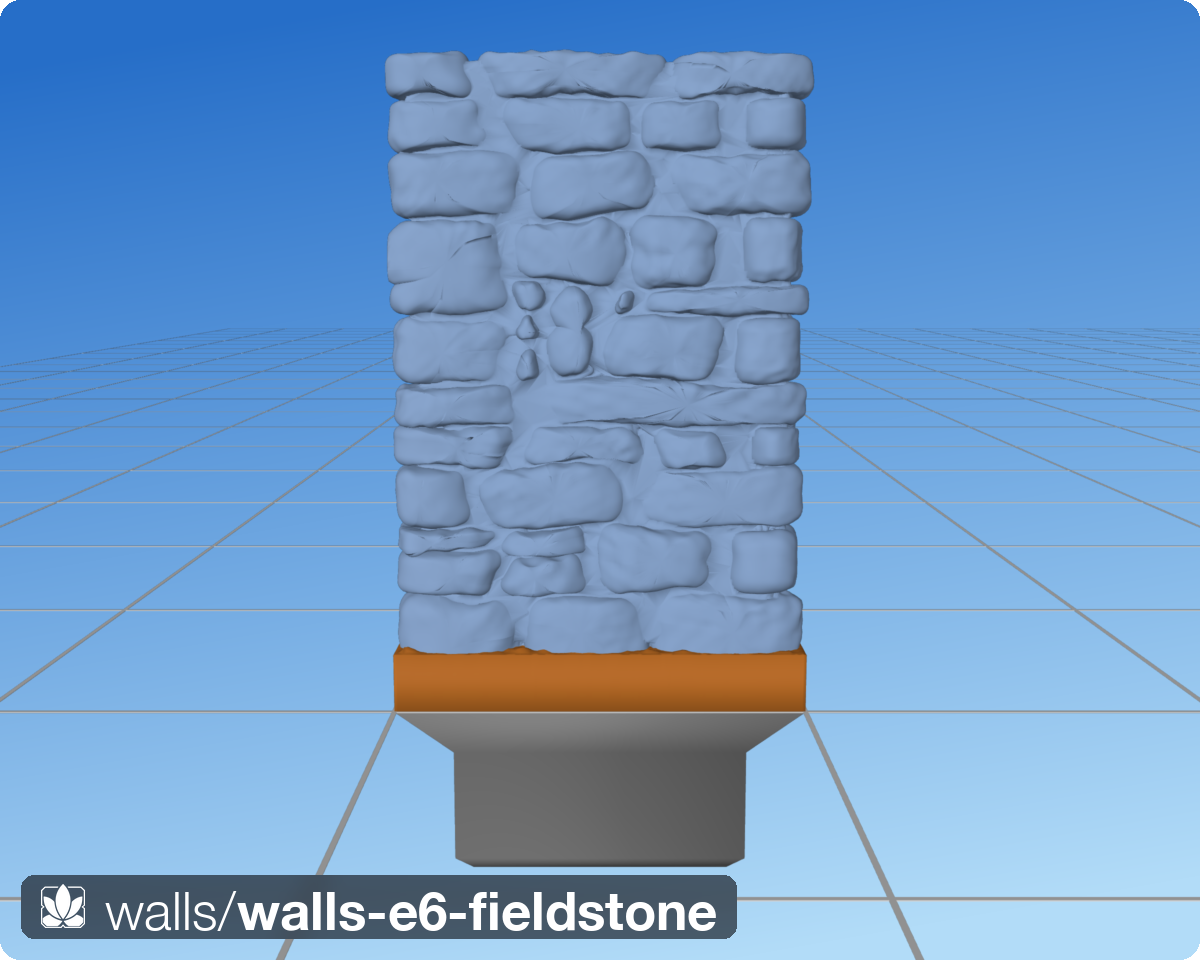
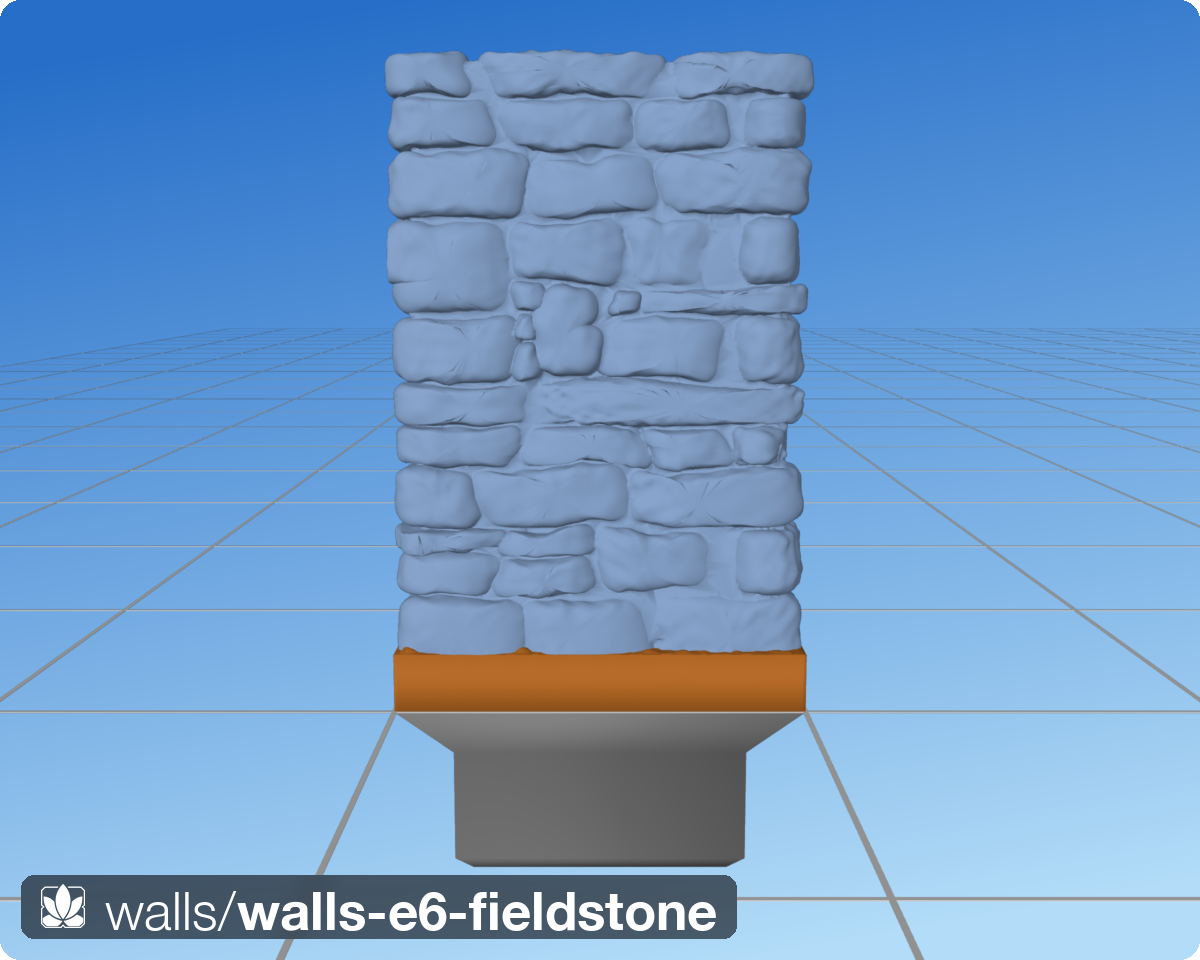
Walls: fieldstone E24 — head-joint overlap (pressed vertical contacts)
Shawn: reduce the horizontal gaps between rocks quite a bit more —
overlap them so the visible mortar reduces at the surface; leave the
top row alone.

- each stone extends past its head-joint lines by U(0.45, 0.95)mm per
  side (capped at 0.25x the stone's width so thin stones aren't
  swallowed); the union fuses side-by-side neighbours into a pressed
  crease instead of an open V-groove
- deliberately relaxes the E10 no-overlap rule for HEAD JOINTS only:
  beds remain shared non-overlapping curves, and with the pebble morph
  the fused contact reads as stones pressed together, not the E9
  melted mass
- top course (is_top) exempt per Shawn

Watertight (0 non-manifold); red-mortar diag 0.0000-0.0001.

diff --git a/src/dharmatiles/walls/fieldstone.py b/src/dharmatiles/walls/fieldstone.py
@@ -64,6 +64,19 @@ _BOW_MM           = 1.1           # head joints BOW up to ±this at their
                                   # joint is a shared parabola, zero at
                                   # the bed lines, both neighbours
                                   # evaluating the same curve
+_HEAD_OVERLAP_MM  = (0.45, 0.95)  # E24: stones extend past their head-
+                                  # joint lines on BOTH sides, drawn per
+                                  # side per stone — neighbours
+                                  # interpenetrate and the union fuses
+                                  # the contact, so the visible mortar
+                                  # at vertical joints shrinks to a
+                                  # pressed crease.  Deliberately breaks
+                                  # the no-overlap rule for head joints
+                                  # only (beds stay shared curves); the
+                                  # TOP COURSE is exempt (Shawn) and the
+                                  # overlap is capped at 0.25× the
+                                  # stone's width so thin stones aren't
+                                  # swallowed
 _RING_NOISE_MM    = (0.04, 0.16)  # per-stone INWARD-only outline noise
                                   # (floor, max; 2 sinusoids over the
                                   # perimeter): irregular stone shapes +
@@ -325,13 +338,21 @@ class FieldstoneWall(CutStoneWall):
 
     # ── the stone ────────────────────────────────────────────────────────────
     def _outline(self, cell: _Cell, seg: _Seg, seg_i: int,
-                 ) -> np.ndarray:
+                 brng: np.random.Generator) -> np.ndarray:
         """Face outline polygon (t, z) bounded by the cell's cracks.
-        Every edge — including every side ENDPOINT — evaluates curves
-        shared with the neighbour across it, so the tessellation has no
-        overlaps and no wedge voids anywhere, by construction."""
+        Every edge evaluates curves shared with the neighbour across it;
+        beds never overlap.  Head joints DO (E24): each stone extends
+        past its side lines so the union fuses side-by-side neighbours
+        into pressed contact — except in the top course."""
         bands = getattr(cell, 'side_bands',
                         [(cell.key[0], cell.z0, cell.z1)])
+        w = cell.t1 - cell.t0
+        if cell.is_top:
+            ov0 = ov1 = 0.0
+        else:
+            cap = 0.25 * w
+            ov0 = min(float(brng.uniform(*_HEAD_OVERLAP_MM)), cap)
+            ov1 = min(float(brng.uniform(*_HEAD_OVERLAP_MM)), cap)
 
         def zeff(z: float, t: float) -> float:
             """Actual (wobbled) height of the bed line at t."""
@@ -341,10 +362,12 @@ class FieldstoneWall(CutStoneWall):
                 return z                       # flat cap plane (R6)
             return z + float(self._bed(seg_i, z, seg.L)(t))
 
-        def side(t_cut: float, end: str):
+        def side(t_cut: float, end: str, off: float):
             """[(t, z), …] bottom→top along this side crack.  Interior
             band boundaries contribute two points (the drift changes
-            where the neighbour changes) — a small shared jog."""
+            where the neighbour changes) — a small shared jog.  ``off``
+            pushes the whole line past the shared curve (head-joint
+            overlap); the curve itself stays keyed at t_cut."""
             if end == 'face':                  # wall end / corner arris
                 return [(t_cut, zeff(cell.z0, t_cut)),
                         (t_cut, zeff(cell.z1, t_cut))]
@@ -355,13 +378,13 @@ class FieldstoneWall(CutStoneWall):
                 hh = (zb1 - zb0) / 2.0
                 for z in np.linspace(zb0, zb1, 5):
                     q = (z - zm) / hh
-                    t = t_cut + d * q / 2.0 + bow * (1.0 - q * q)
+                    t = t_cut + off + d * q / 2.0 + bow * (1.0 - q * q)
                     zpt = zeff(z, t) if z in (zb0, zb1) else z
                     pts.append((t, zpt))
             return pts
 
-        left  = side(cell.t0, cell.end0)
-        right = side(cell.t1, cell.end1)
+        left  = side(cell.t0, cell.end0, -ov0)
+        right = side(cell.t1, cell.end1, +ov1)
 
         def bed(z: float, ta: float, tb: float):
             n = max(2, int(abs(tb - ta) / 4.0) + 2)
@@ -385,7 +408,7 @@ class FieldstoneWall(CutStoneWall):
         seg = segs[cell.seg]
         brng = np.random.default_rng(
             (self.seed * 1_000_003 + hash(cell.key)) & 0x7FFFFFFF)
-        outline = self._outline(cell, seg, cell.seg)
+        outline = self._outline(cell, seg, cell.seg, brng)
 
         # Inset by half the crack, round the corners (negative-positive
         # buffer): the crack is a real thin gap by construction.  The

diff --git a/docs/design/walls-coursed-masonry.md b/docs/design/walls-coursed-masonry.md
@@ -197,7 +197,8 @@ unioned surface — the DB set-13 signature).
 | E20 | **Scatter-stones surface texture** (Shawn: apply our existing rock texture): `_stone_texture` ports the shipped stones.py aged pass at wall-stone scale — broad organic undulation (6 waves, foot/4.5…foot/1.6, spectral 1.0; auto amplitude clip(0.03·foot, 0.10, 0.30)) + granular drybrush tooth (16 waves 0.9–3.2 mm, clip(0.012·foot, 0.10, 0.25)×0.5), × patchy 3-wave envelope (floor 0.2), displaced along Taubin-smoothed normals with curvature damping — which also protects the crack roots, exactly where the zero-gap stones touch.  `relief_mm=None` → auto; 0 disables; a number overrides the undulation amplitude (base-ctor preset substitution bypassed post-super).  Red 0.0000 all five views | Shawn: ✓ + next tweak |
 | E21 | **Rougher, irregular, wandery** (Shawn): texture amplitudes up (undulation clip(0.045·foot, 0.14, 0.45), grain clip(0.016·foot, 0.12, 0.30)×0.6); head joints BOW ±1.1 mm at midpoint (shared parabola, zero at the beds — both neighbours evaluate the same curve); bed wobble amp 0.16–0.38 at shorter wavelengths 11–32 (course min raised 2.3 → 2.6 to keep the thinnest waists chink-class); per-stone INWARD-only outline noise (2 sinusoids over the perimeter) makes silhouettes irregular and cracks open/close along their run without touching the no-overlap guarantee | folded into E22 |
 | E22 | **Rounder, less gap + watertight fix** (Shawn): roundover 1.3–2.6 (size cap 0.26), morph shoulders slightly fuller (b 0.33–0.48); outline noise reduced to 0.04–0.16 mm **with a floor** — E21's zero-noise minima left surfaces exactly tangent, and one tangency survived the union as a single non-manifold edge after float32 STL rounding; the hairline floor keeps every contact transversal.  Exported STL watertight again (0 open, 0 non-manifold).  Red 0.0000–0.0001 | Shawn: ✓ + next tweak |
-| E23 | **Slightly rounder beds + the real pinch fix**: `_BED_FLAT_EXP` 0.22–0.42 → 0.30–0.52 ("a bit" rounder tops/bottoms).  The non-manifold edge returned — root cause understood: zero-gap stones + texture displacement leave a near-zero clearance somewhere every build; the mesh stays INDEX-manifold so re-canonicalising through manifold is a no-op, but STL reload merges vertices by POSITION and collapses the pinch.  `_separate_pinches` (masonry chassis): after the union, kD-tree finds coincident vertex pairs that aren't topologically adjacent and nudges each 0.15 µm inward along its own normal — every contact stays separated past the float32 grid.  Exported STL watertight, 0 non-manifold | pending Shawn |
+| E23 | **Slightly rounder beds + the real pinch fix**: `_BED_FLAT_EXP` 0.22–0.42 → 0.30–0.52 ("a bit" rounder tops/bottoms).  The non-manifold edge returned — root cause understood: zero-gap stones + texture displacement leave a near-zero clearance somewhere every build; the mesh stays INDEX-manifold so re-canonicalising through manifold is a no-op, but STL reload merges vertices by POSITION and collapses the pinch.  `_separate_pinches` (masonry chassis): after the union, kD-tree finds coincident vertex pairs that aren't topologically adjacent and nudges each 0.15 µm inward along its own normal — every contact stays separated past the float32 grid.  Exported STL watertight, 0 non-manifold | Shawn: ✓ + next tweak |
+| E24 | **Head-joint overlap** (Shawn: reduce horizontal gaps quite a bit more — let stones overlap so visible mortar reduces; top row untouched): each stone extends past its head-joint lines by U(0.45, 0.95) mm per side (capped at 0.25× stone width), the union fusing side-by-side neighbours into a pressed crease.  Deliberately relaxes the E10 no-overlap rule for head joints only — beds stay shared curves, and with the pebble morph the fused contact reads as stones pressed together, not the E9 melted mass.  `is_top` cells exempt.  Watertight, red 0.0000–0.0001 | pending Shawn |
 
 Implementation notes: cut-stone blocks finish through `_blur_remesh`
 (σ 0.7) — `subdivide_to_size` leaves T-junctions that break the
